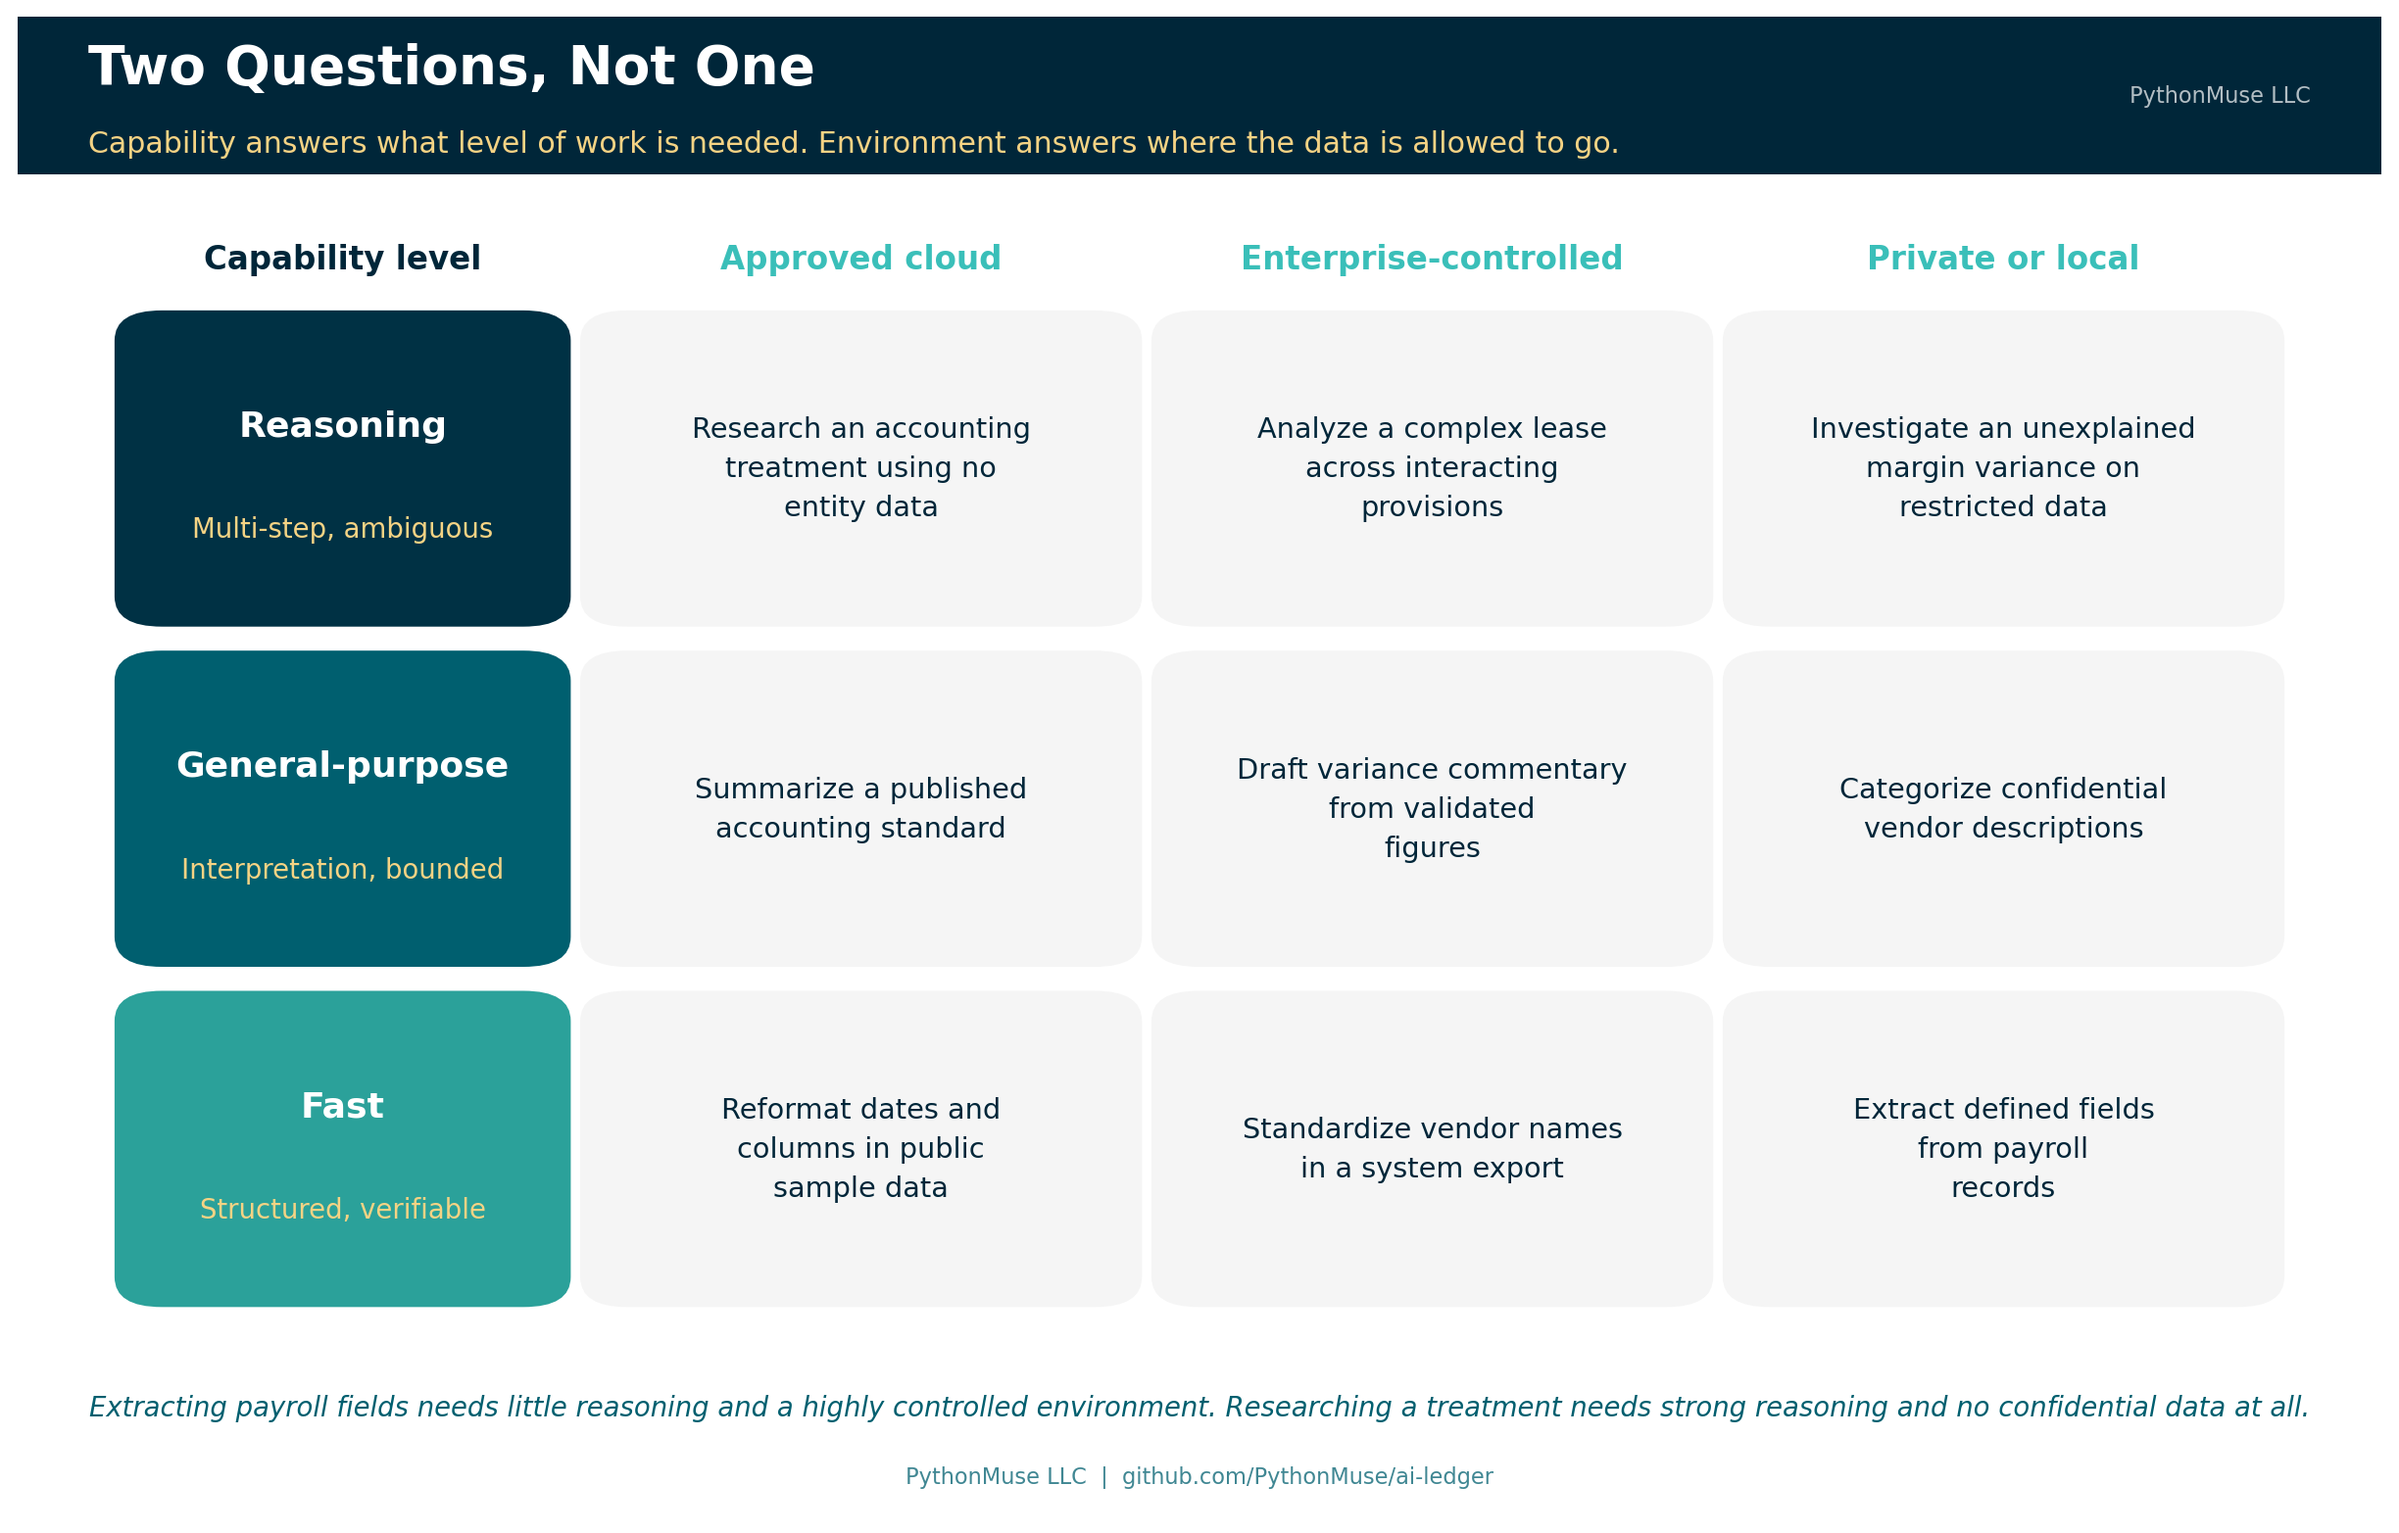
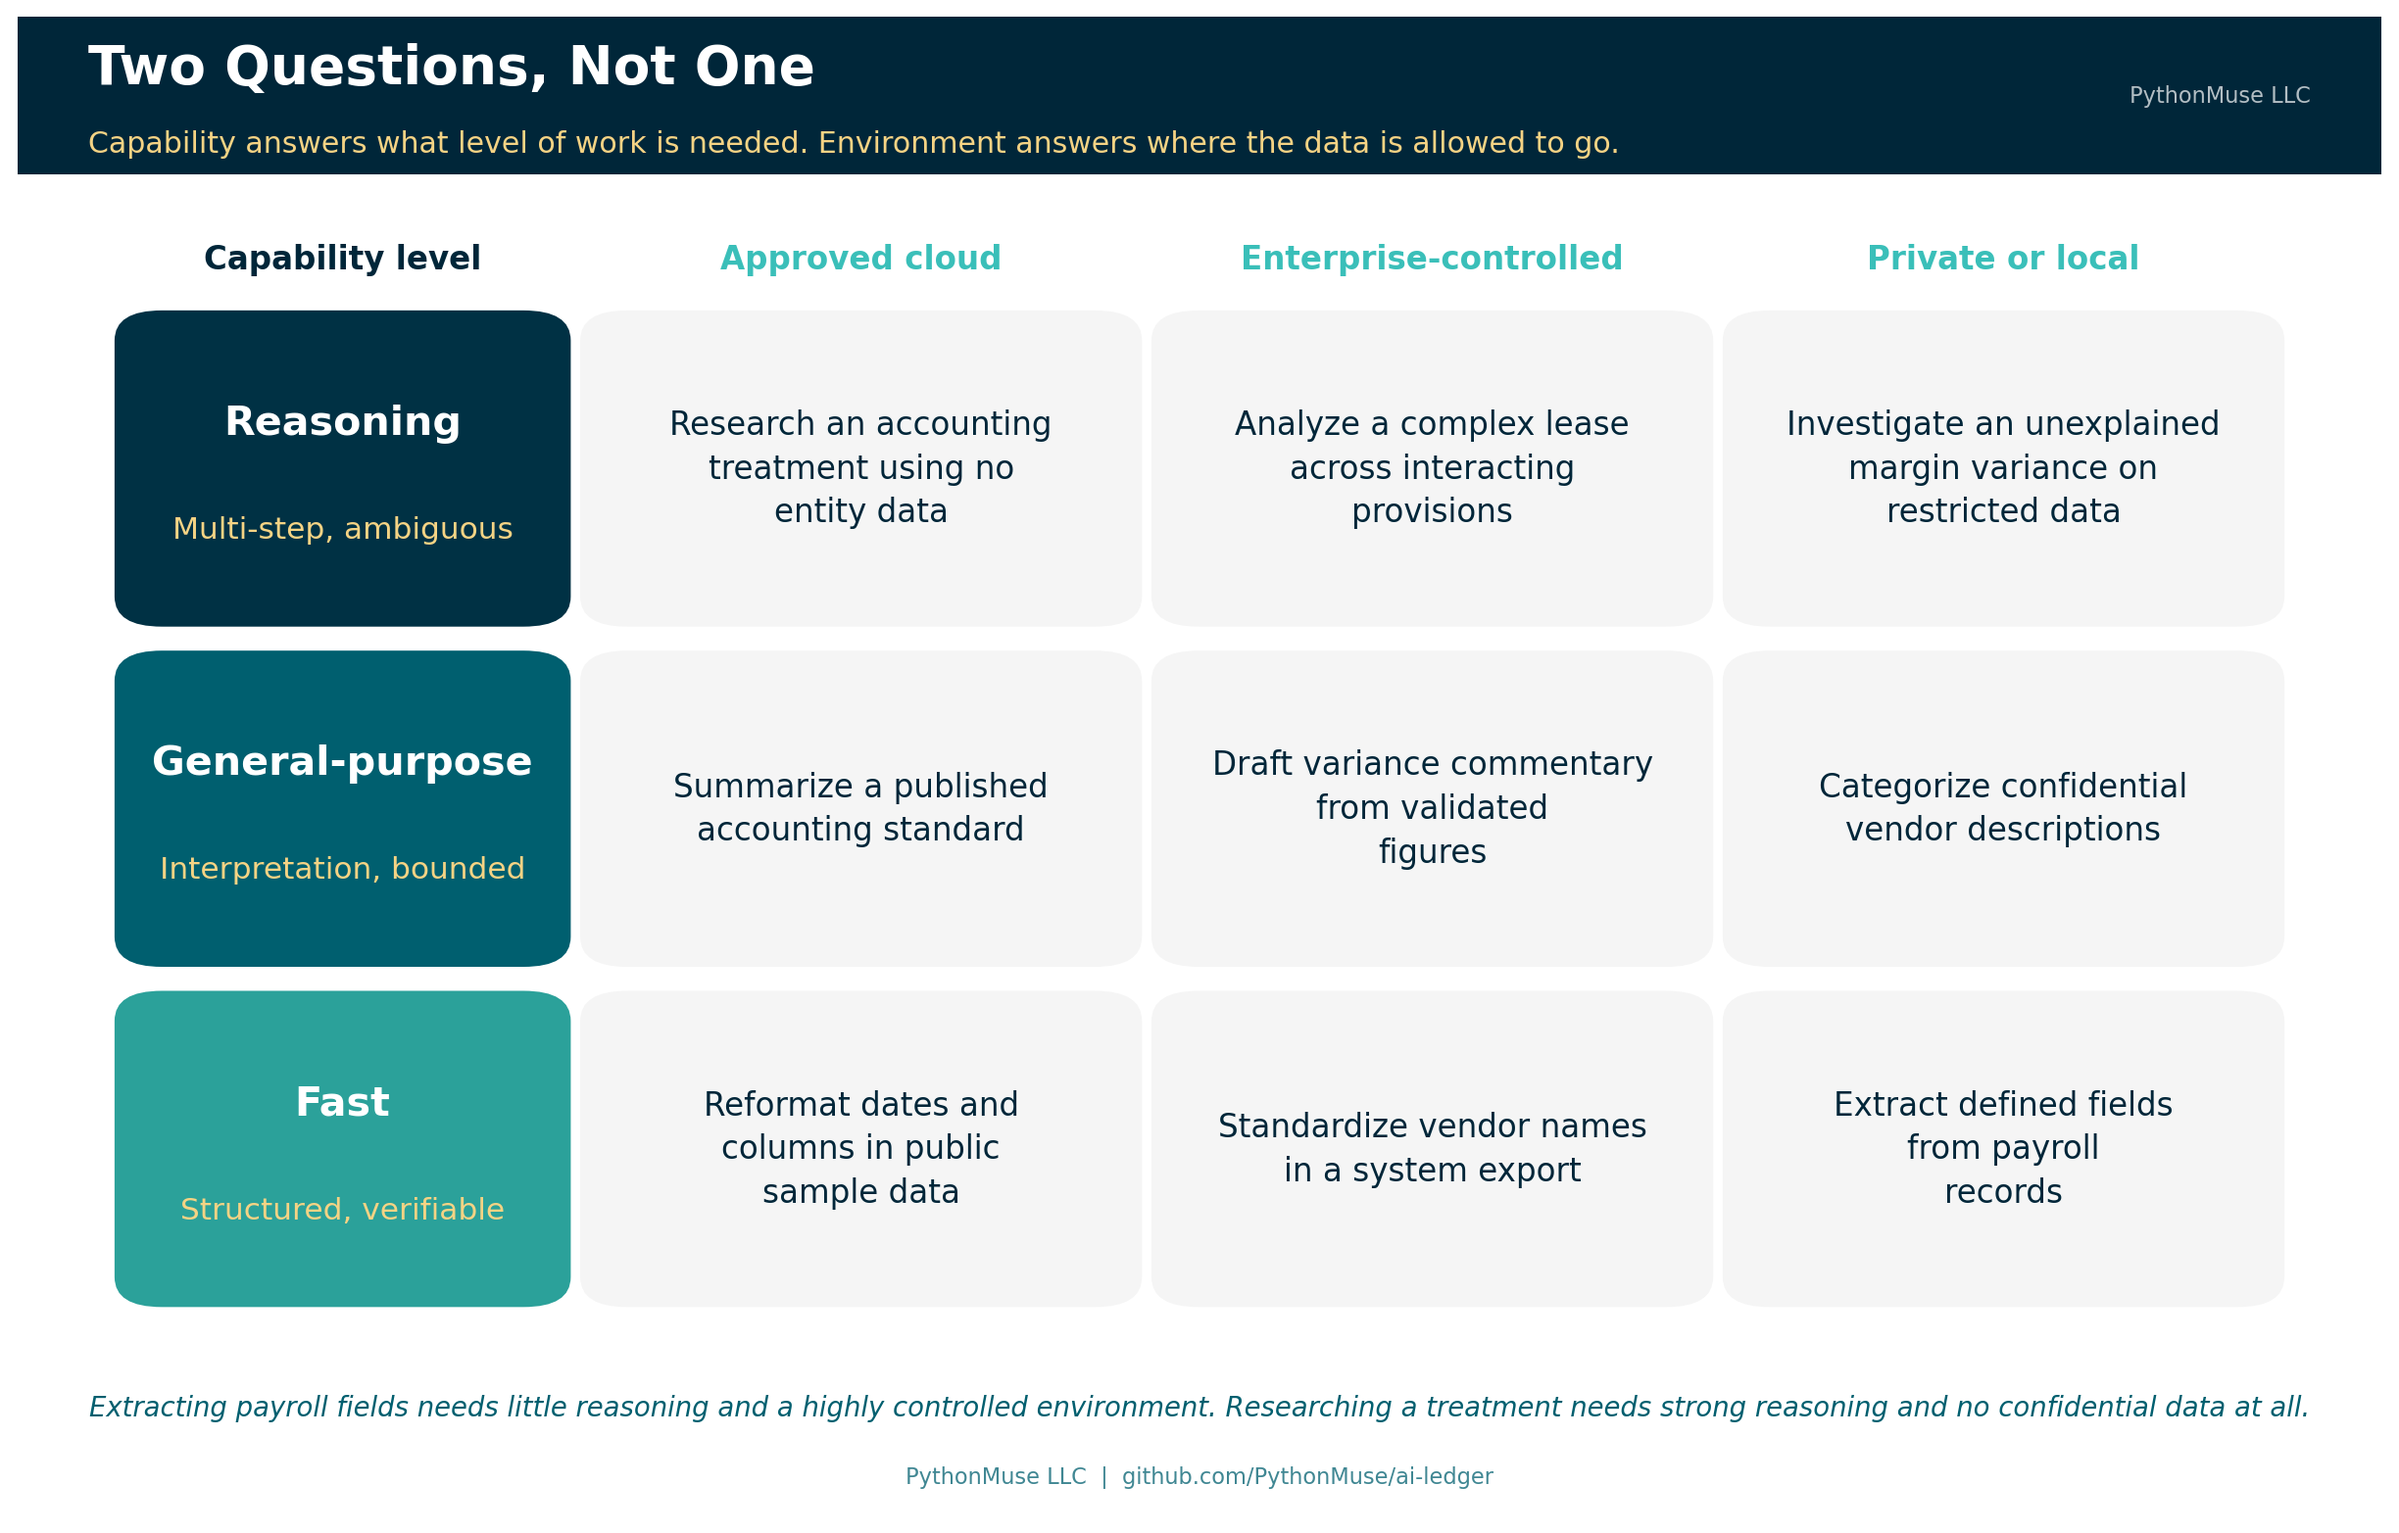
Enlarge text in the hero capability/environment grid (Article 36)
Bumps row-label and task-cell font sizes while re-tuning offsets and
line spacing so text stays inside each box's boundary.

diff --git a/articles/36-model-selection-is-a-control/generate_visuals.py b/articles/36-model-selection-is-a-control/generate_visuals.py
@@ -163,15 +163,15 @@ def make_hero():
         # Row label: the capability dimension.
         tc, sc = text_colors(color)
         rounded_box(ax, (x0, y), label_w, row_h, color, text_color=tc,
-                    text=cap, fontsize=14.5,
-                    sub=capsub, subsize=11, sub_color=sc,
-                    title_offset=0.14, sub_offset=0.20)
+                    text=cap, fontsize=16.5,
+                    sub=capsub, subsize=12.5, sub_color=sc,
+                    title_offset=0.15, sub_offset=0.20)
 
         # Cells: one accounting task per environment.
         for c, task in enumerate(tasks):
             cxy = (grid_x + c * (col_w + col_gap), y)
             rounded_box(ax, cxy, col_w, row_h, "#F5F5F5", text_color=DEEP_NAVY,
-                        text=task, fontsize=11.5, bold=False, linespacing=1.55)
+                        text=task, fontsize=13, bold=False, linespacing=1.45)
 
     fig.text(0.5, 0.072,
              "Extracting payroll fields needs little reasoning and a highly controlled environment. "
